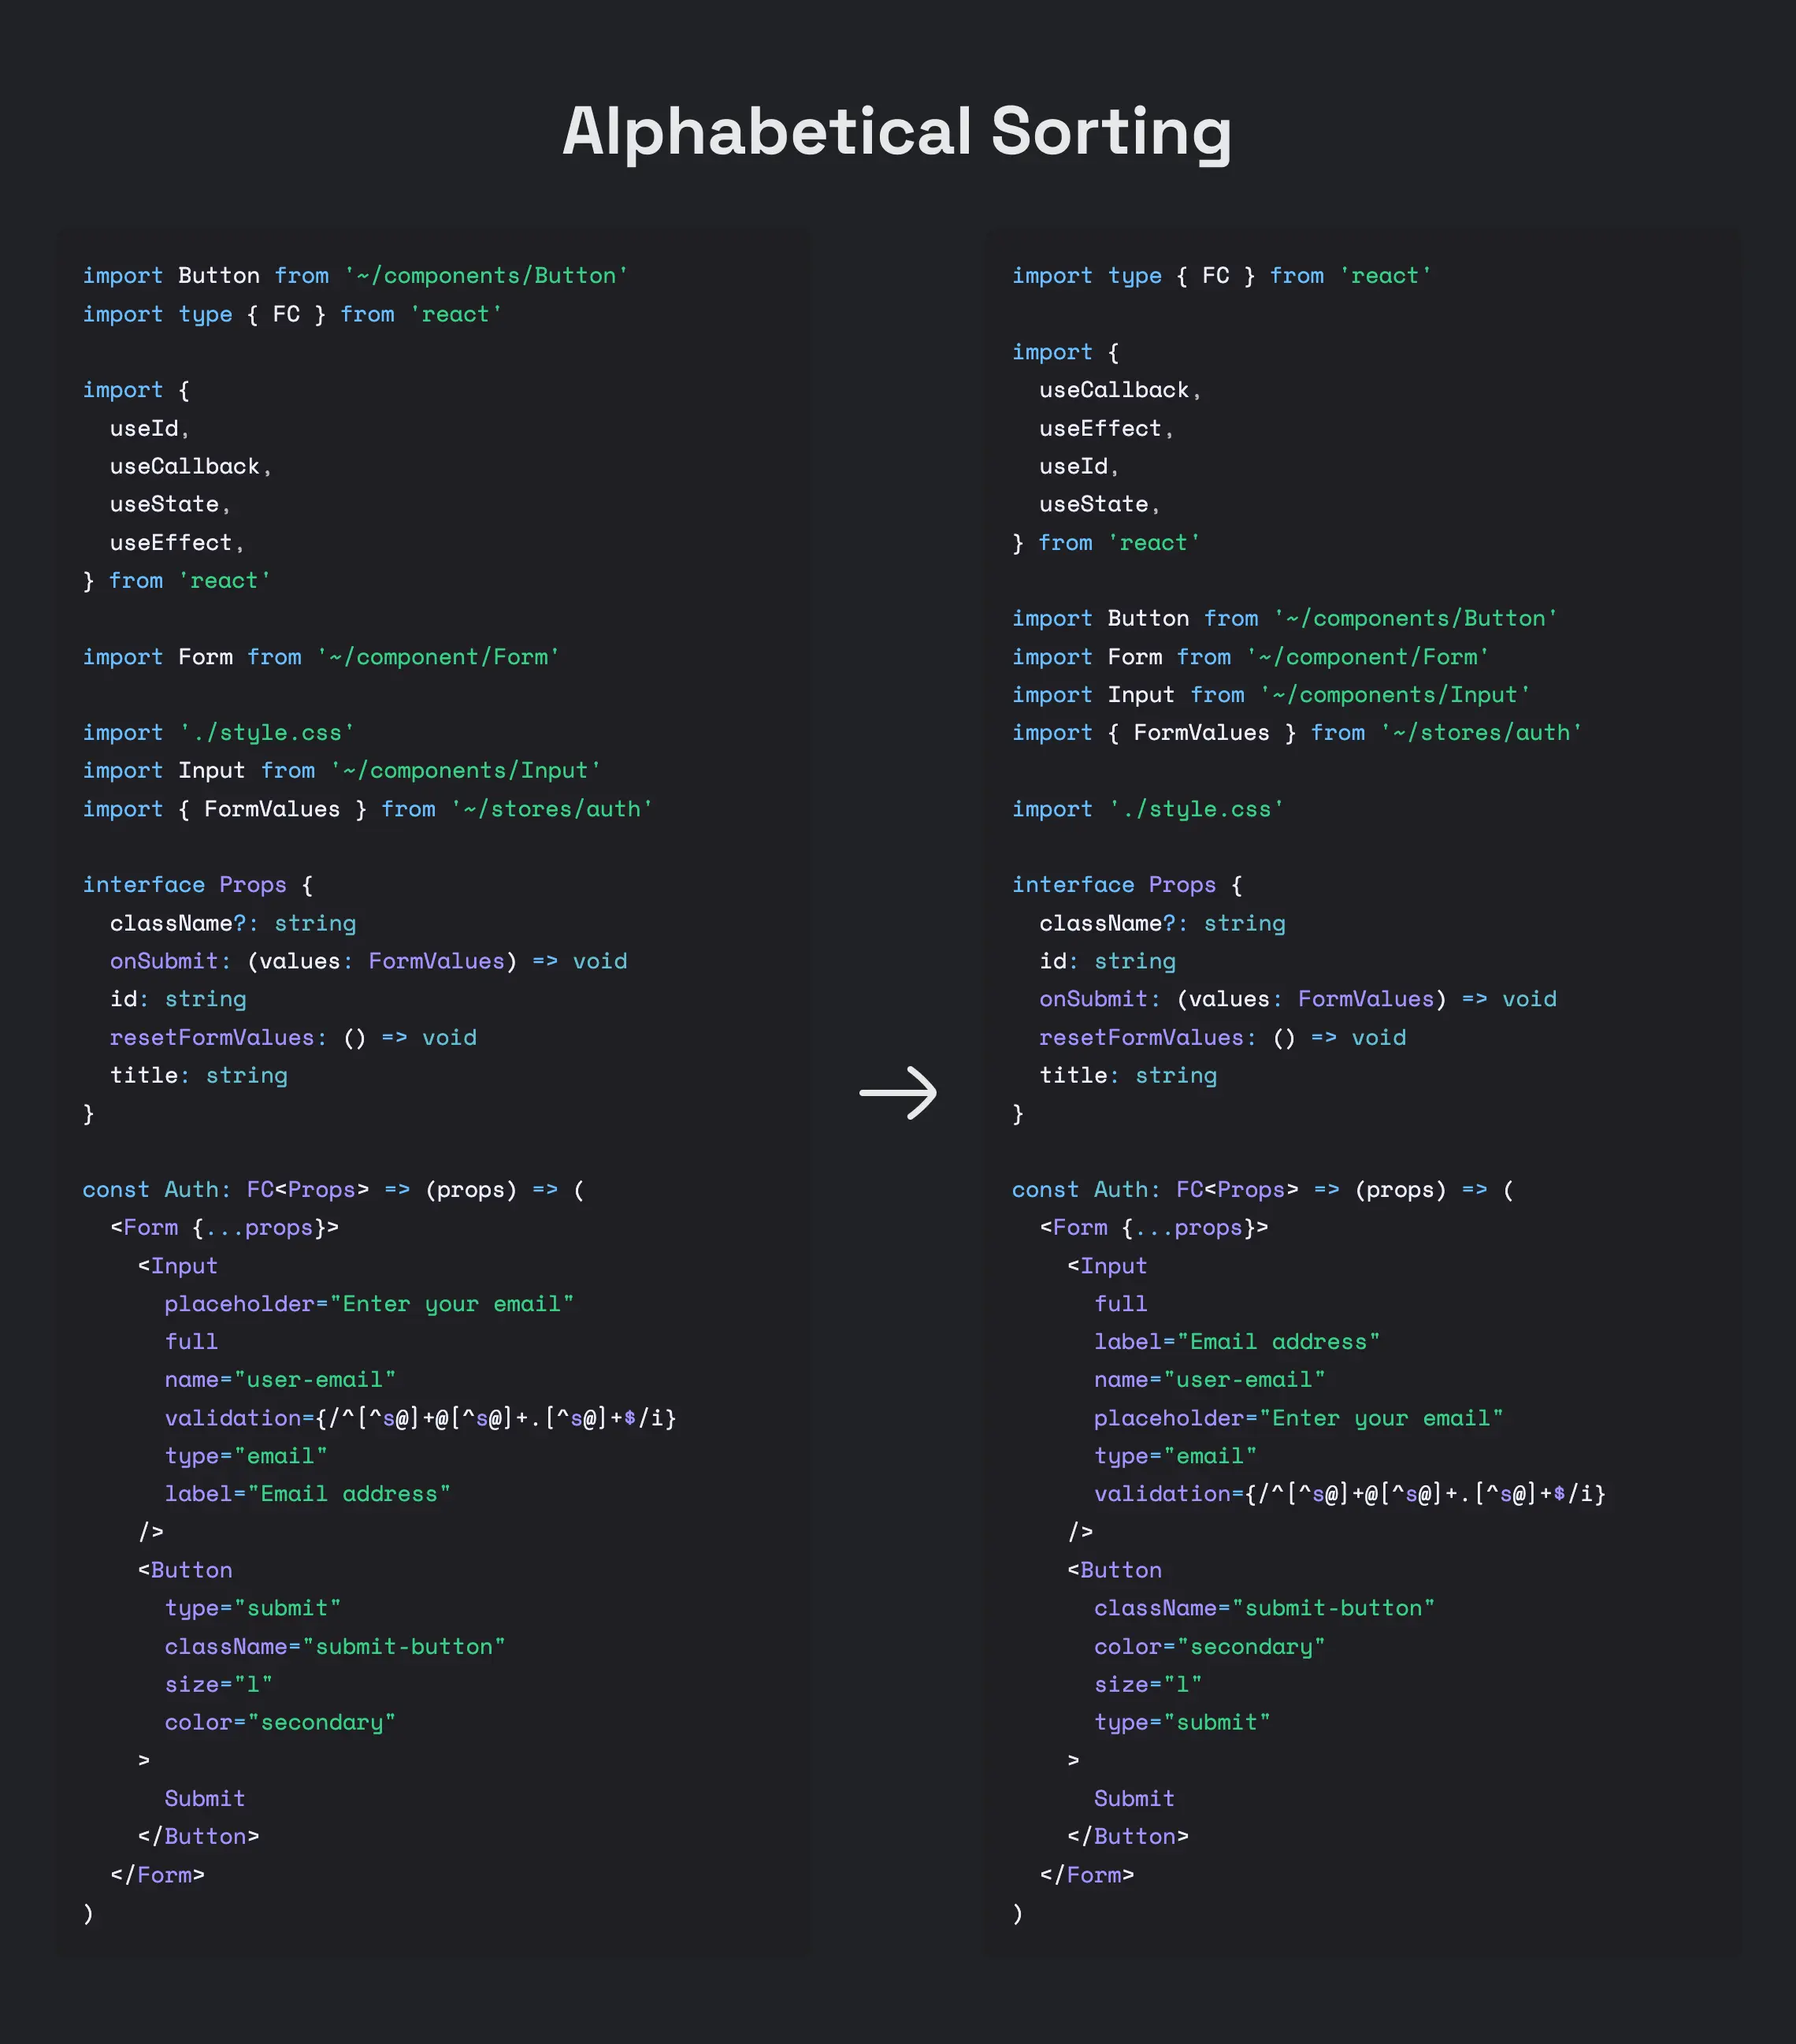
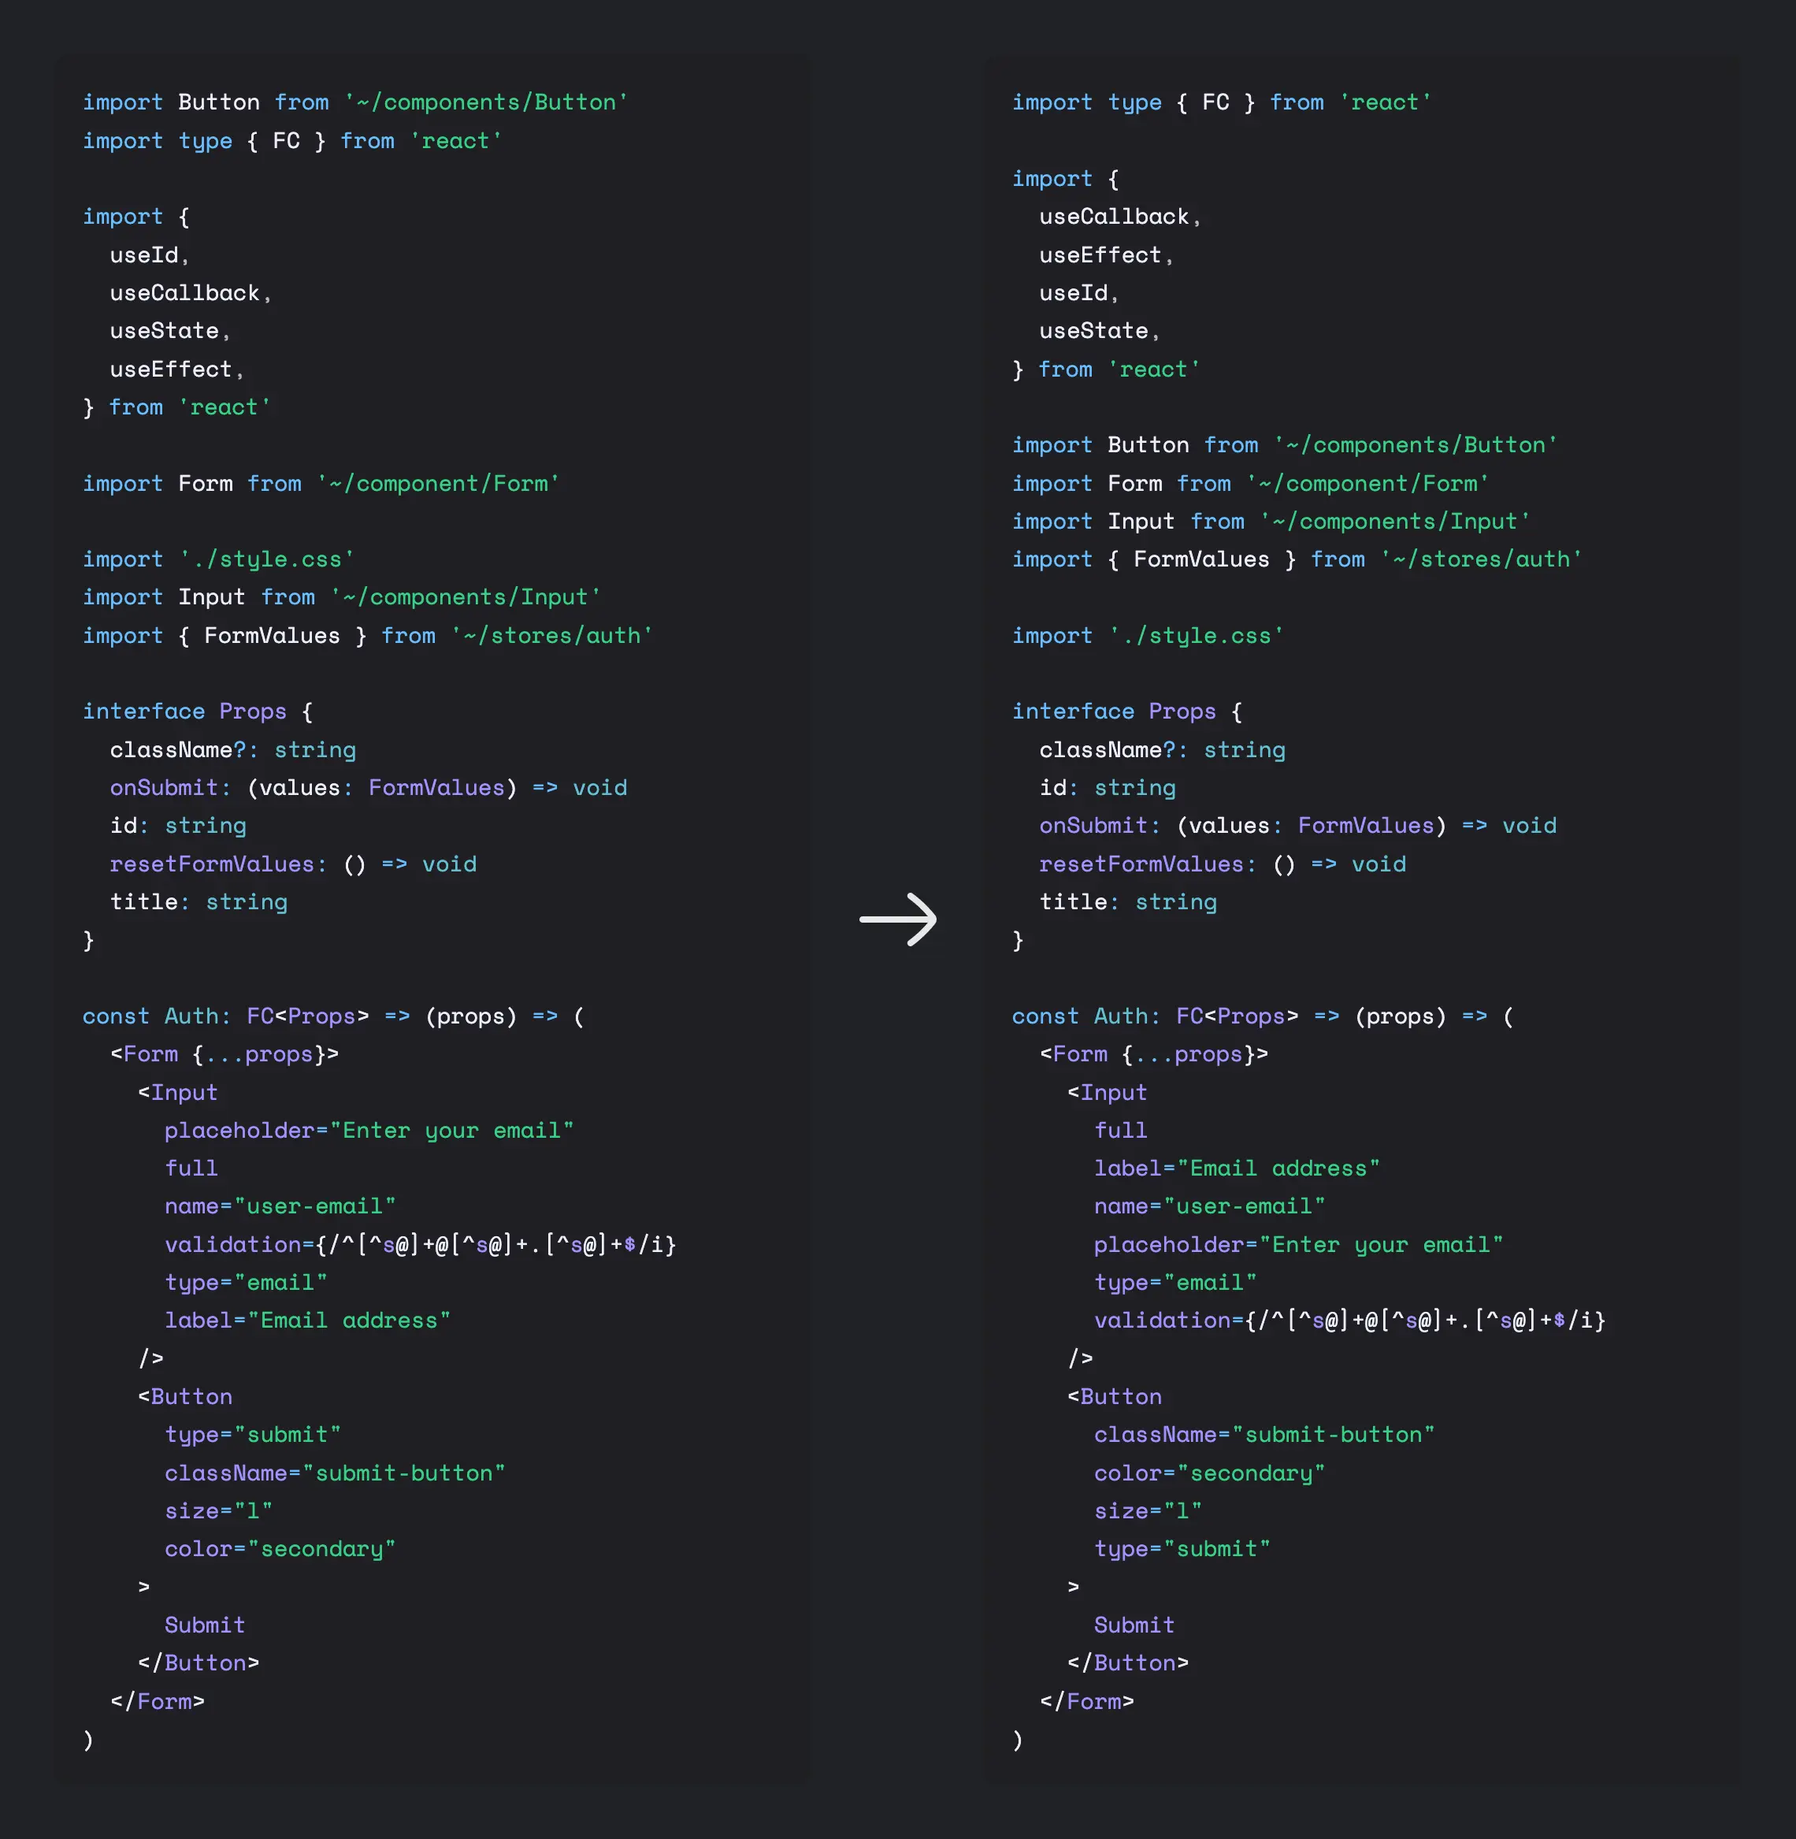
docs: update readme

diff --git a/readme.md b/readme.md
@@ -37,8 +37,12 @@ Sorting imports and properties in software development offers numerous benefits:
 
 See [docs](https://perfectionist.dev).
 
+### Alphabetical Sorting
+
 ![ESLint Plugin Perfectionist alphabetical usage example](https://raw.githubusercontent.com/azat-io/eslint-plugin-perfectionist/main/docs/public/examples/example-alphabetical-dark.webp#gh-dark-mode-only)
 ![ESLint Plugin Perfectionist alphabetical usage example](https://raw.githubusercontent.com/azat-io/eslint-plugin-perfectionist/main/docs/public/examples/example-alphabetical-light.webp#gh-light-mode-only)
+
+### Sorting by Line Length
 
 ![ESLint Plugin Perfectionist line length usage example](https://raw.githubusercontent.com/azat-io/eslint-plugin-perfectionist/main/docs/public/examples/example-line-length-dark.webp#gh-dark-mode-only)
 ![ESLint Plugin Perfectionist line length usage example](https://raw.githubusercontent.com/azat-io/eslint-plugin-perfectionist/main/docs/public/examples/example-line-length-light.webp#gh-light-mode-only)
@@ -72,7 +76,7 @@ export default [
       perfectionist,
     },
     rules: {
-      'perfectionist/sort-objects': [
+      'perfectionist/sort-imports': [
         'error',
         {
           type: 'natural',
@@ -93,7 +97,7 @@ module.exports = {
     'perfectionist',
   ],
   rules: {
-    'perfectionist/sort-objects': [
+    'perfectionist/sort-imports': [
       'error',
       {
         type: 'natural',
